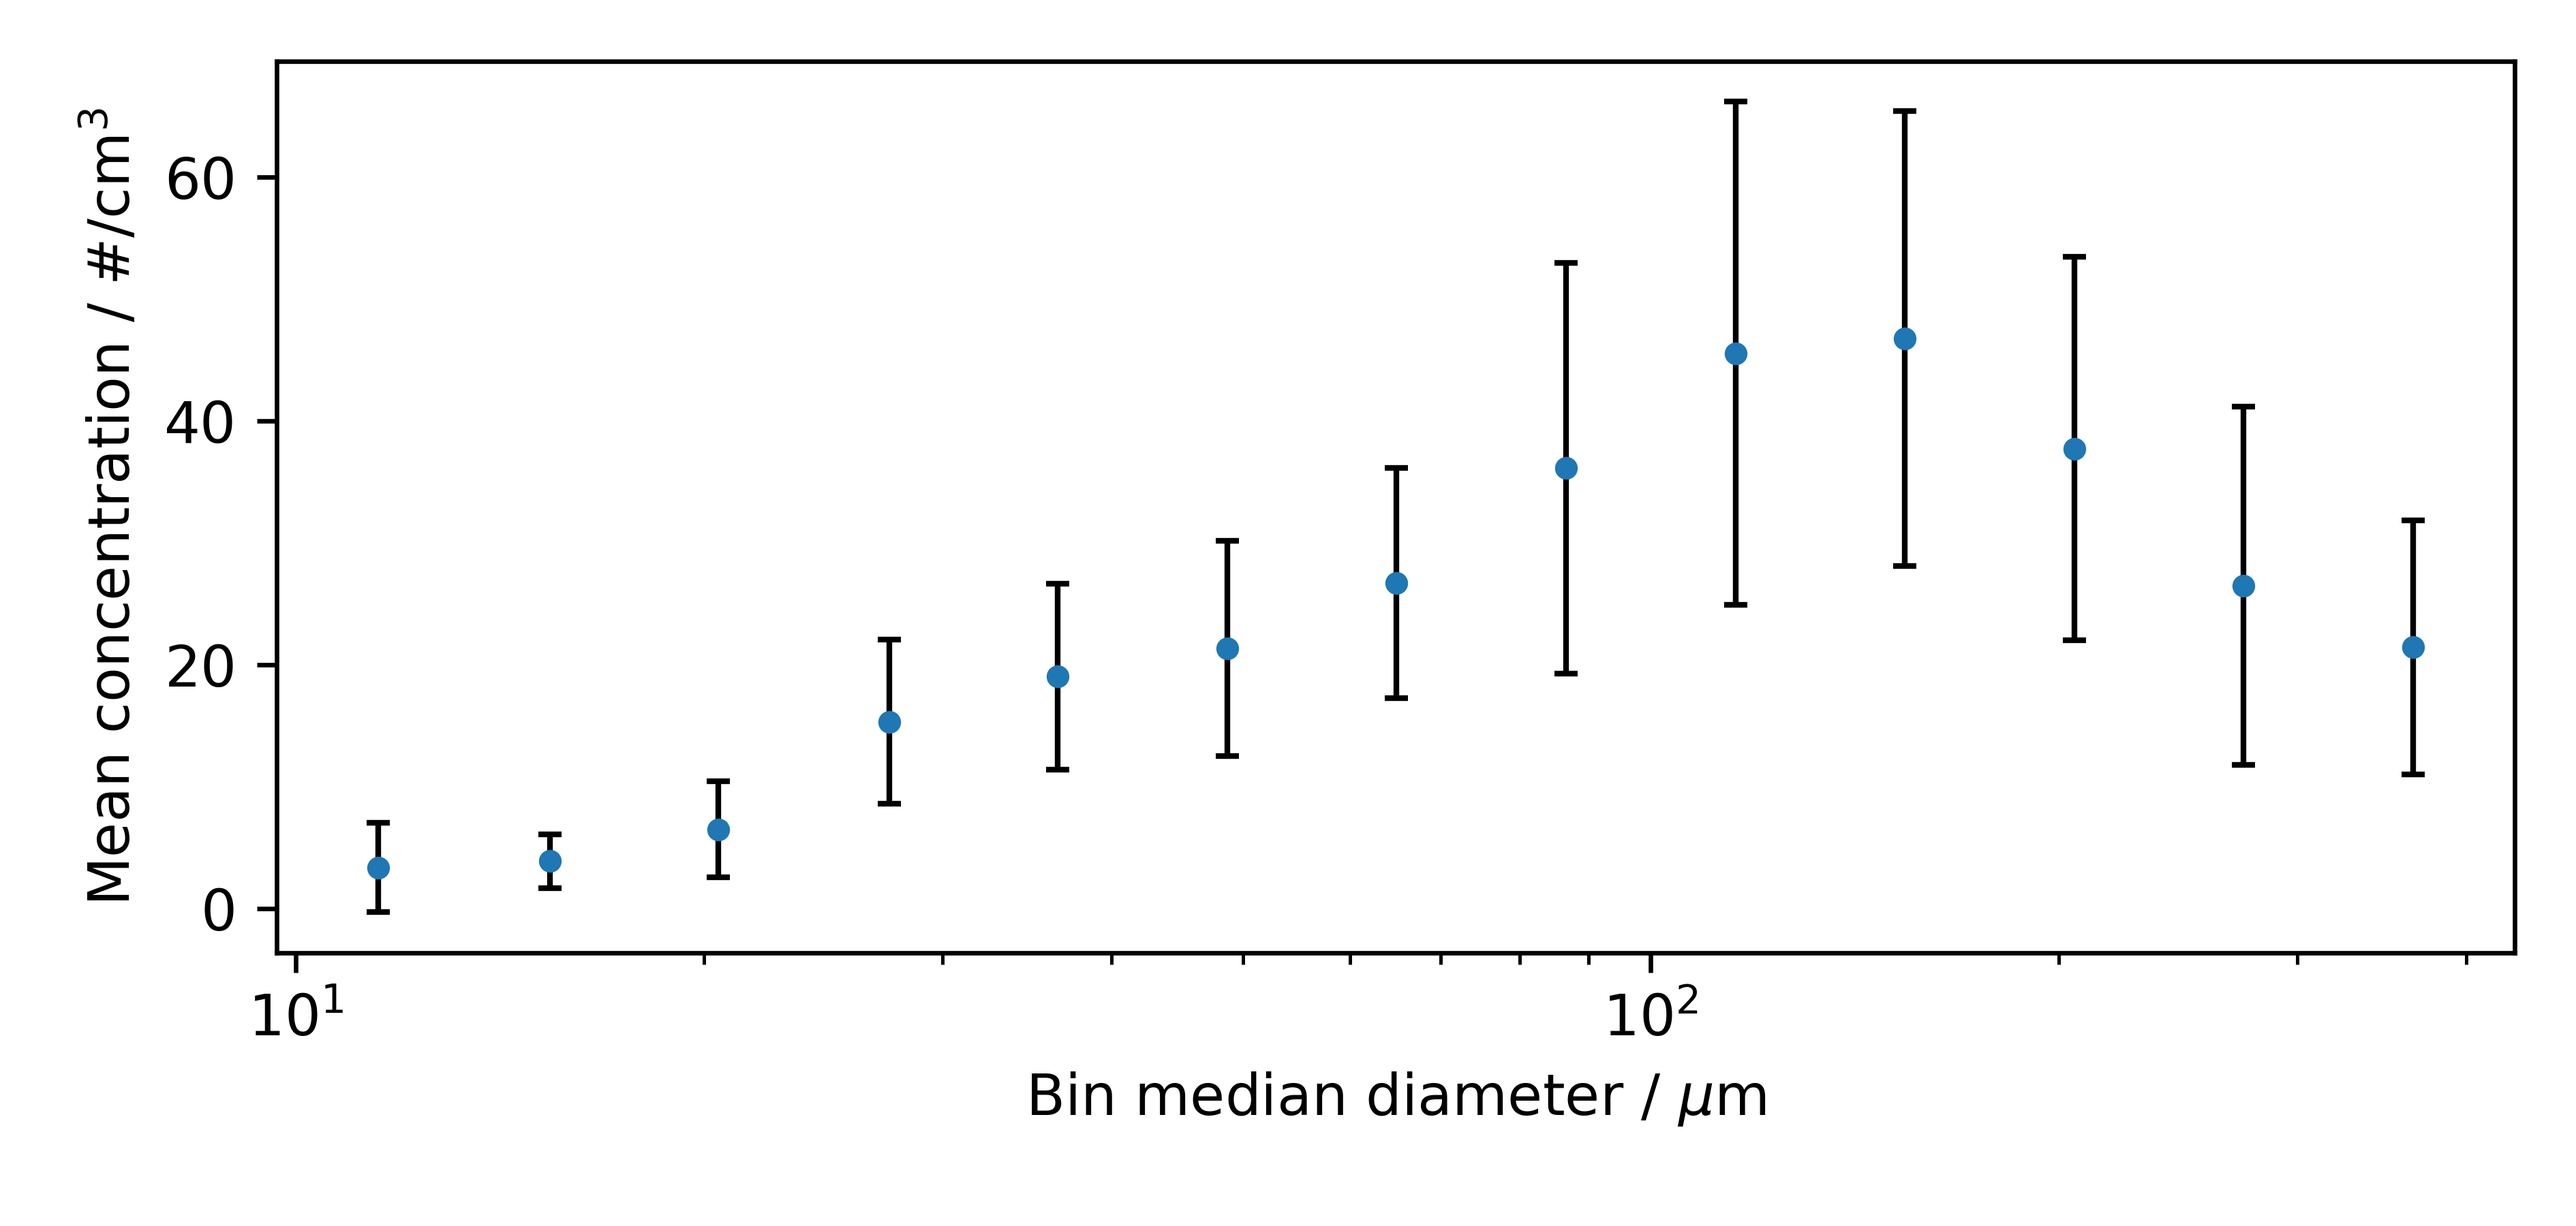
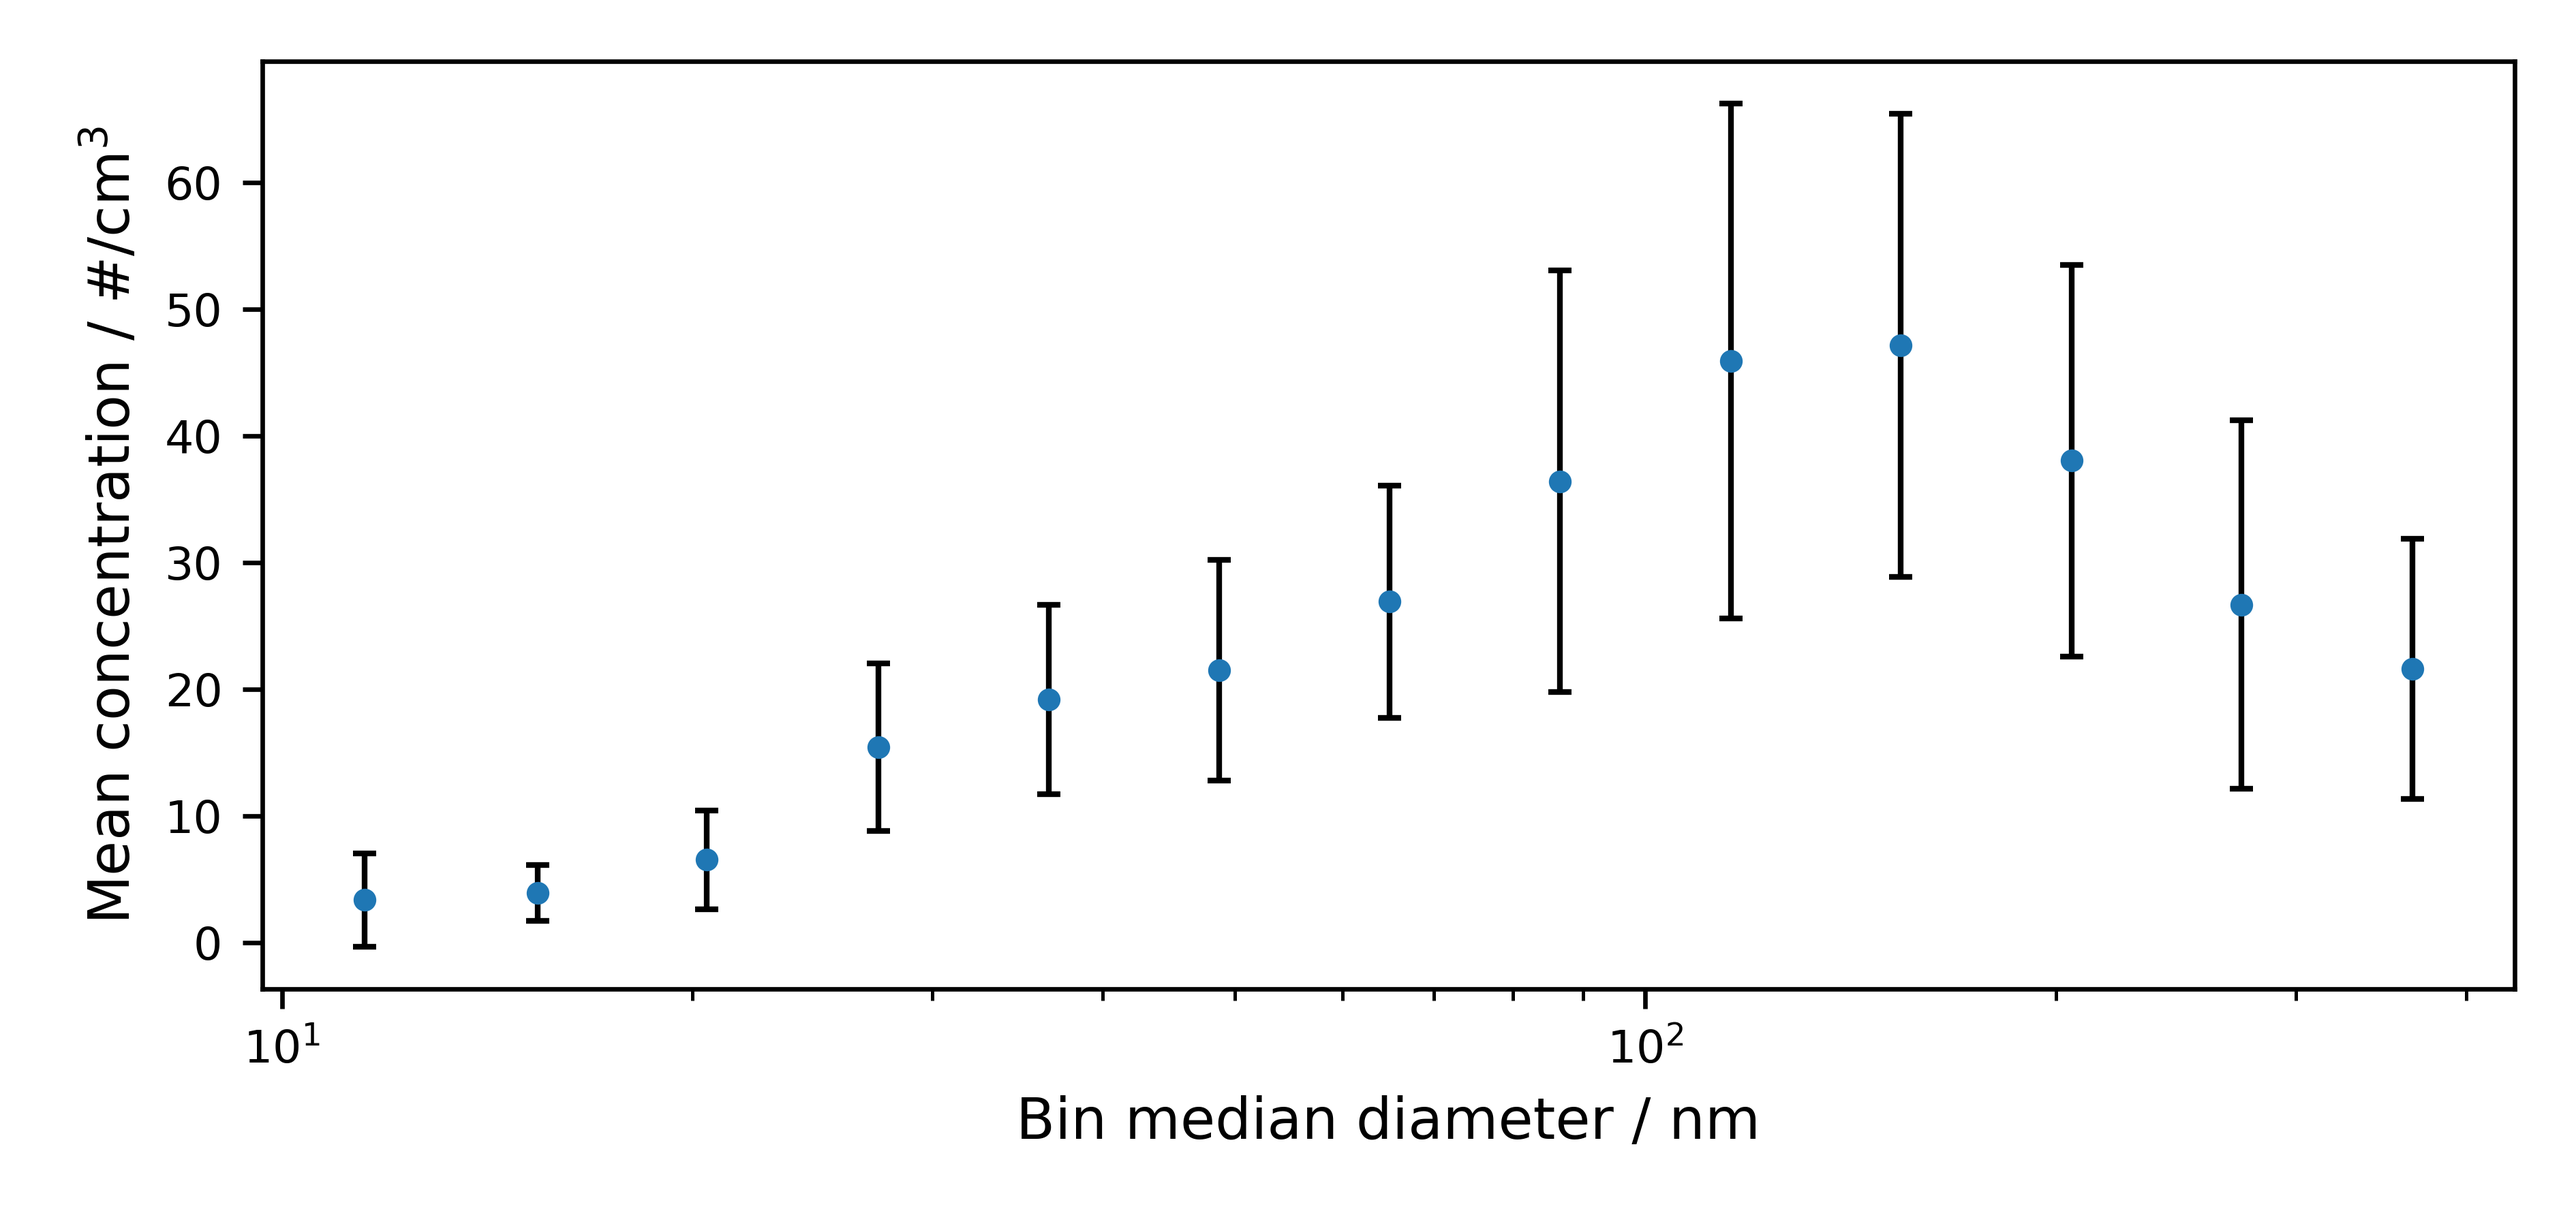
update

diff --git a/calculations.py b/calculations.py
@@ -279,3 +279,34 @@ def instrument_comparison(ax, data, data_keys, ref_data, concentration, timelabe
                 merged = pd.merge(new_df, ref_df, on = timelabel[0], how = 'inner')
 
                 plot_reference(ax[i], x_plot, merged, ['Reference', key], axis_labels)
+
+def bin_mean(timestamps, df, df_keys, timelabel):
+    mean = []
+    std = []
+
+    start_time = pd.to_datetime(timestamps[0])
+    end_time = pd.to_datetime(timestamps[1])
+
+    time = pd.to_datetime(df[timelabel])
+    time_filter = (time >= start_time) & (time <= end_time)
+
+    for key in df_keys:
+        conc = np.array(df[key])
+        filtered_conc = conc[time_filter]
+        bin_mean = filtered_conc.mean()
+        bin_std = filtered_conc.std()
+        mean.append(bin_mean)
+        std.append(bin_std)
+    
+    return mean, std
+
+def plot_bin_mean(ax, timestamps, df, df_keys, timelabel, bins, axis_labels):
+    mean, std = bin_mean(timestamps, df, df_keys, timelabel)
+
+    ax.errorbar(bins, mean, std, fmt='.', ecolor='k', elinewidth=1, capsize=2, capthick=1)
+
+    ax.set(xlabel = axis_labels[0], ylabel = axis_labels[1], xscale='log')
+
+    # Set labels and title for the scatter plot
+    ax.tick_params(axis = 'both', which = 'major', direction = 'out', bottom = True, left = True, labelsize = 8)
+    ax.tick_params(axis = 'both', which = 'minor', direction = 'out', bottom = True, left = True)
